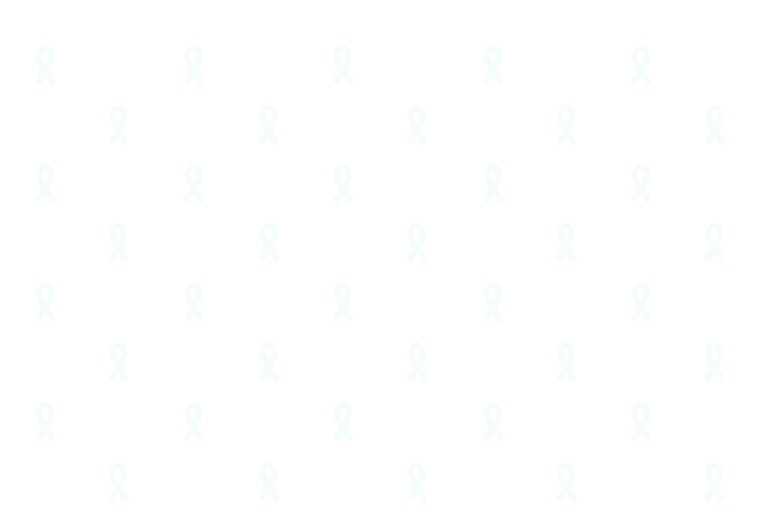
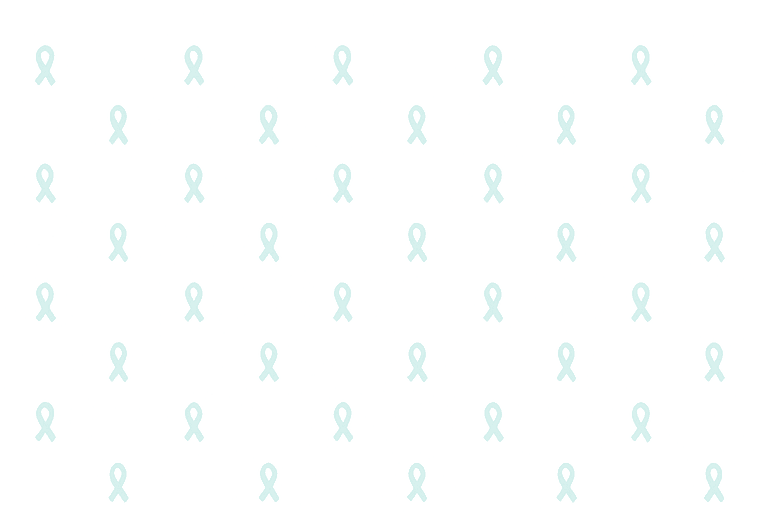
Finish-review fixes: teal ribbons, footer clearance, faster settle, drawn arrows, date under titles
Claude-Session: https://claude.ai/code/session_01TSHsdsb39ogoQHEES6sQ7m

diff --git a/src/styles/global.css b/src/styles/global.css
@@ -78,7 +78,9 @@ html {
   -webkit-text-size-adjust: 100%;
   text-size-adjust: 100%;
   scroll-padding-top: calc(var(--header-h) + 1rem);
+  scroll-padding-bottom: calc(96px + env(safe-area-inset-bottom));
 }
+@media (min-width: 1000px) { html { scroll-padding-bottom: 0; } }
 body {
   font-family: var(--font-body);
   font-size: var(--step-0);
